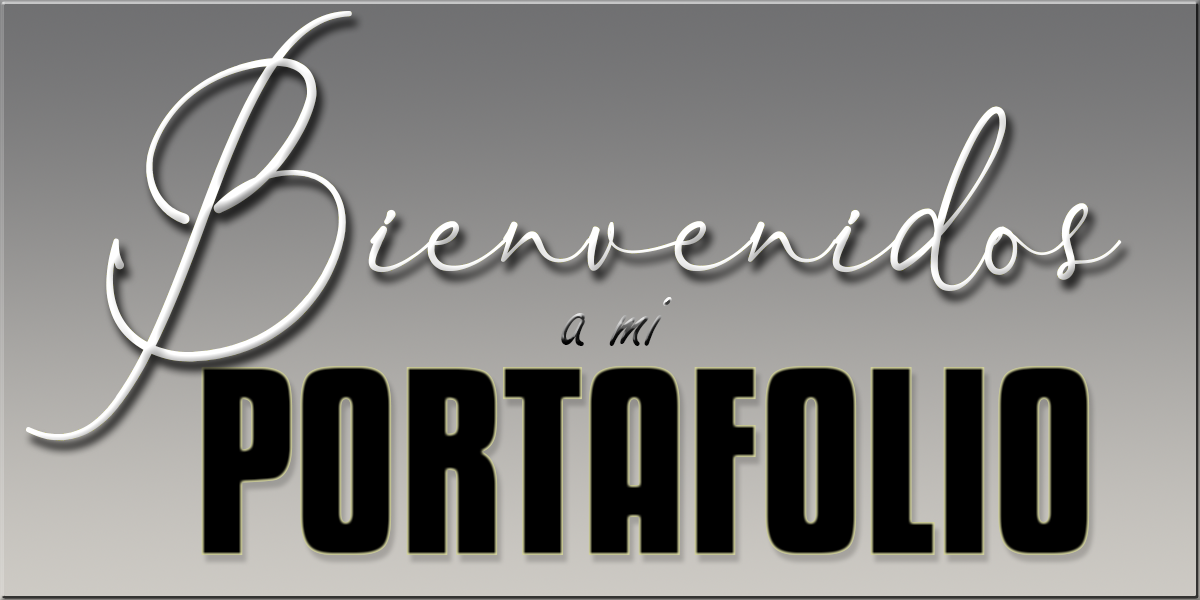
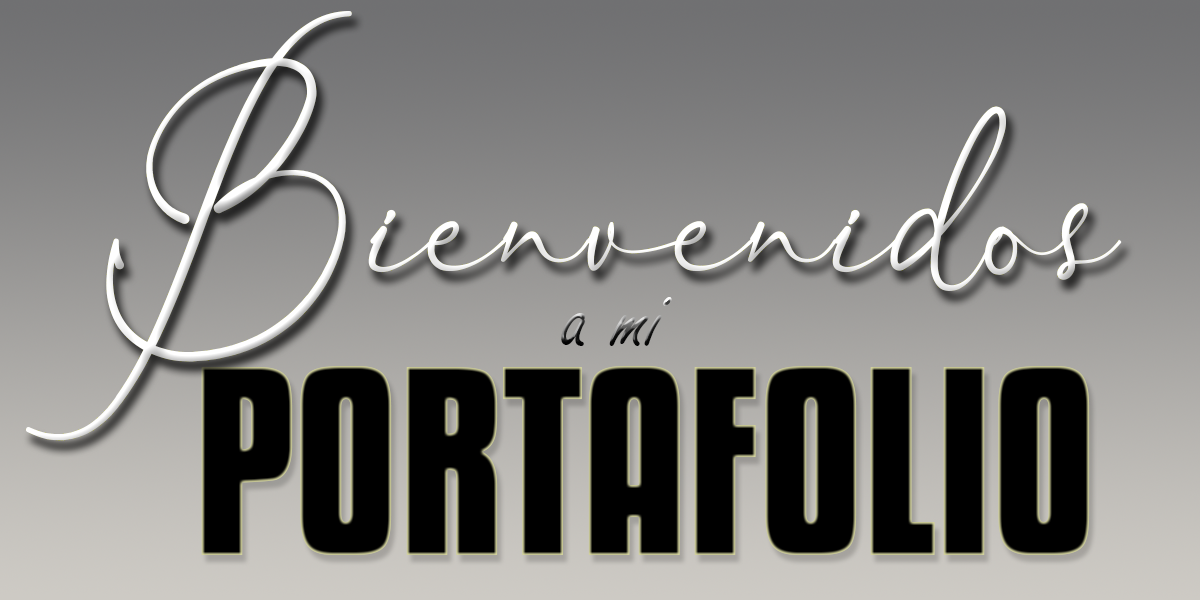
cambios estética

Changed region(s): [[0.0, 0.0, 1.0, 1.0]]

diff --git a/Proyecto/src/app/components/acercade/acercade.component.css b/Proyecto/src/app/components/acercade/acercade.component.css
@@ -1,7 +1,7 @@
 .row{
-    padding: 20px;
+    padding: 1px;
 }
 div{
-    background-color: #707072;
+    background-color: #cfcbbe;
     text-align: center;
 }

diff --git a/Proyecto/src/app/components/header/header.component.css b/Proyecto/src/app/components/header/header.component.css
@@ -1,5 +1,5 @@
 div{
-    Background-color: #aca9a5;
+    Background-color: #707074;
  }
 app-social{
   float: right;
